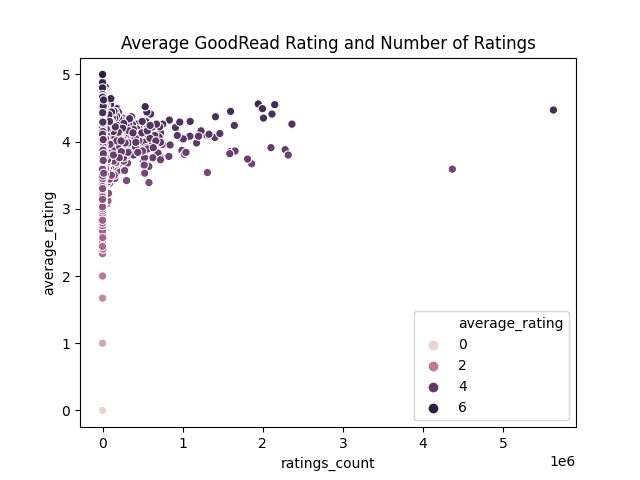
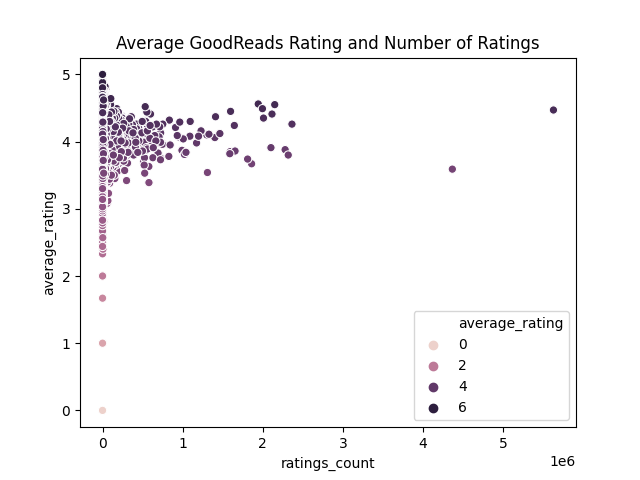
Updated title for scatterplot.

Changed region(s): [[0.1875, 0.0625, 0.8438, 0.125]]

diff --git a/main.py b/main.py
@@ -11,6 +11,6 @@ with open("books.csv","r") as datafile:
 
 sns.scatterplot(x="ratings_count", y="average_rating", hue="average_rating", data=data)
 
-plt.title("Average GoodRead Rating and Number of Ratings")
+plt.title("Average GoodReads Rating and Number of Ratings")
 
 plt.savefig("avg_rtg_rtg_count.png")
